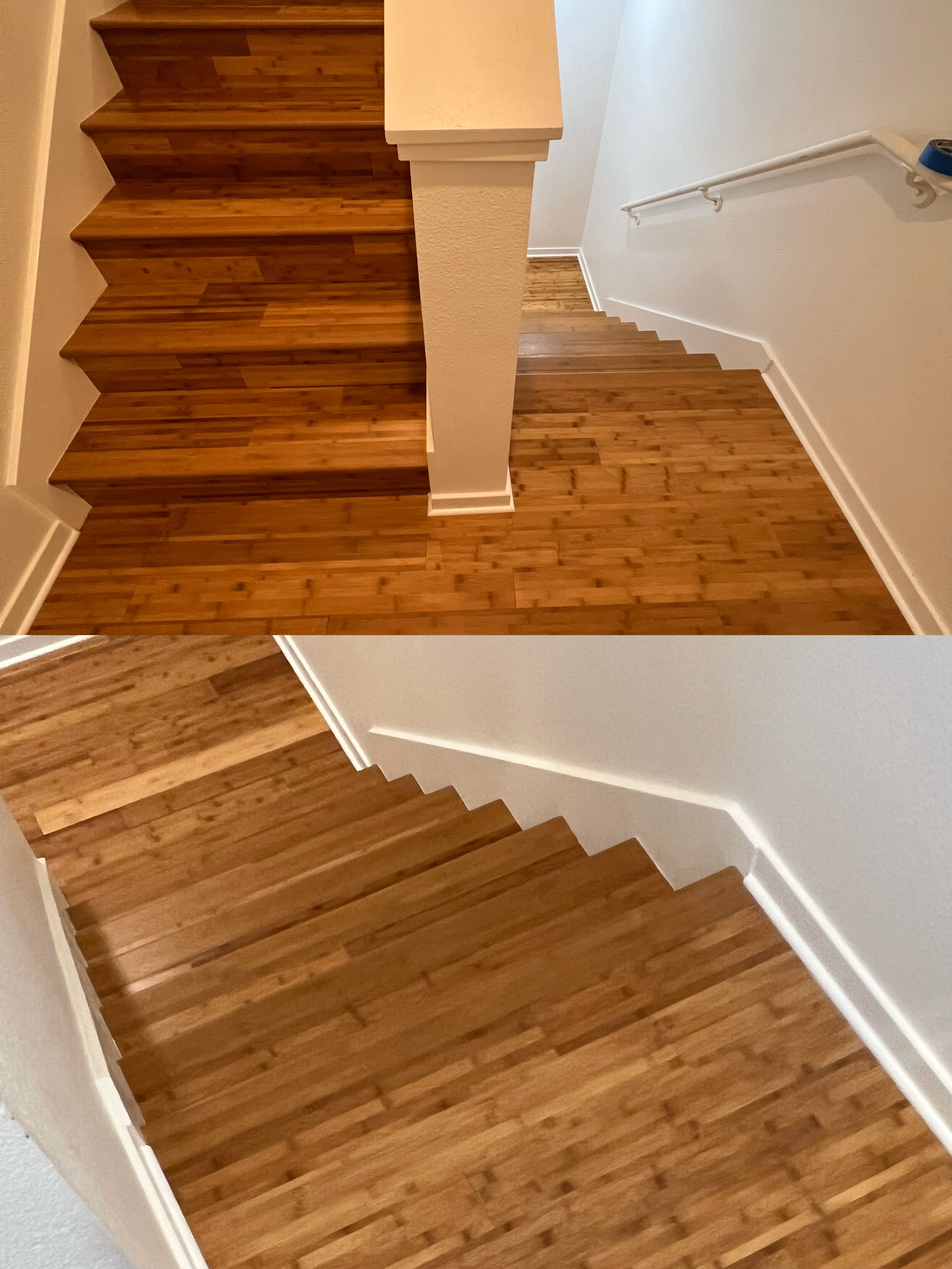
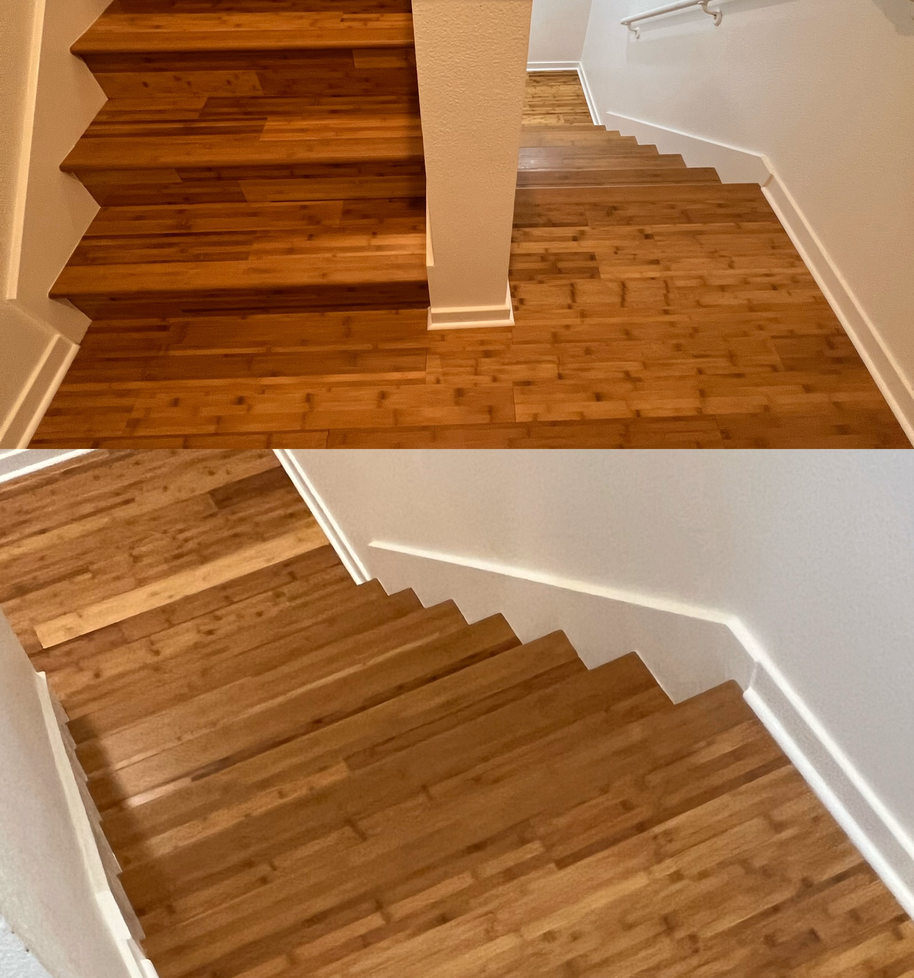
12/23/2024 installation page done

diff --git a/Installation.html b/Installation.html
@@ -55,13 +55,13 @@
             <div class="accordion-item">
               <h2 class="accordion-header" id="headingTwo">
                 <button class="accordion-button collapsed" type="button" data-bs-toggle="collapse" data-bs-target="#collapseTwo" aria-expanded="false" aria-controls="collapseTwo">
-                  2 1/4 inch red oak hardwood floor refinished with waterbased finish
+                  red oak hardwood floor with walnut strips
                 </button>
               </h2>
               <div id="collapseTwo" class="accordion-collapse collapse" aria-labelledby="headingTwo" data-bs-parent="#accordionExample">
                 <div class="accordion-body">
                     <div class="imageposition">
-                        <img src="5.png" alt="...">
+                        <img src="install7.jpg" alt="...">
                     </div>
                 </div>
               </div>
@@ -69,13 +69,13 @@
             <div class="accordion-item">
               <h2 class="accordion-header" id="headingThree">
                 <button class="accordion-button collapsed" type="button" data-bs-toggle="collapse" data-bs-target="#collapseThree" aria-expanded="false" aria-controls="collapseThree">
-                  Water damaged floor stained with Dark Walnut
+                  Prefinished Bamboo floor on stairs
                 </button>
               </h2>
               <div id="collapseThree" class="accordion-collapse collapse" aria-labelledby="headingThree" data-bs-parent="#accordionExample">
                 <div class="accordion-body">
                     <div class="imageposition">
-                        <img src="4.png" alt="...">
+                        <img src="install9.jpg" alt="...">
                     </div>
                  </div>
               </div>
@@ -83,13 +83,13 @@
             <div class="accordion-item">
                 <h2 class="accordion-header" id="headingFour">
                   <button class="accordion-button collapsed" type="button" data-bs-toggle="collapse" data-bs-target="#collapseFour" aria-expanded="false" aria-controls="collapseFour">
-                    Before vs after! Better than expected
+                    White oak prefinished engineering hardwood floor over concrete
                   </button>
                 </h2>
                 <div id="collapseFour" class="accordion-collapse collapse" aria-labelledby="headingFour" data-bs-parent="#accordionExample">
                   <div class="accordion-body">
                       <div class="imageposition">
-                          <img src="3.png" alt="...">
+                          <img src="install5.jpg" alt="...">
                       </div>
                   </div>
                 </div>
@@ -97,13 +97,13 @@
               <div class="accordion-item">
                 <h2 class="accordion-header" id="headingFive">
                   <button class="accordion-button collapsed" type="button" data-bs-toggle="collapse" data-bs-target="#collapseFive" aria-expanded="false" aria-controls="collapseFive">
-                    Oil based natural red oak finish
+                    Prefinished Engineering Hardwood floor nailed down.
                   </button>
                 </h2>
                 <div id="collapseFive" class="accordion-collapse collapse" aria-labelledby="headingFive" data-bs-parent="#accordionExample">
                   <div class="accordion-body">
                       <div class="imageposition">
-                          <img src="2.png" alt="...">
+                          <img src="install1.jpg" alt="...">
                       </div>
                   </div>
                 </div>
@@ -111,17 +111,62 @@
               <div class="accordion-item">
                 <h2 class="accordion-header" id="headingSix">
                   <button class="accordion-button collapsed" type="button" data-bs-toggle="collapse" data-bs-target="#collapseSix" aria-expanded="false" aria-controls="collapseSix">
-                    Bamboo floor with oil base natural finish
+                    Red oak hardwood floor with natural finish
                   </button>
                 </h2>
                 <div id="collapseSix" class="accordion-collapse collapse" aria-labelledby="headingSix" data-bs-parent="#accordionExample">
                   <div class="accordion-body">
                       <div class="imageposition">
-                          <img src="1.png" alt="...">
+                          <img src="install2.jpg" alt="...">
                       </div>
                    </div>
                 </div>
               </div>
+              <div class="accordion-item">
+                <h2 class="accordion-header" id="heading7">
+                  <button class="accordion-button collapsed" type="button" data-bs-toggle="collapse" data-bs-target="#collapse7" aria-expanded="false" aria-controls="collapse7">
+                    Solid white oak hardwood floor.
+                  </button>
+                </h2>
+                <div id="collapse7" class="accordion-collapse collapse" aria-labelledby="heading7" data-bs-parent="#accordionExample">
+                  <div class="accordion-body">
+                      <div class="imageposition">
+                          <img src="install3.jpg" alt="...">
+                      </div>
+                  </div>
+                </div>
+              </div>
+
+              <div class="accordion-item">
+                <h2 class="accordion-header" id="heading8">
+                  <button class="accordion-button collapsed" type="button" data-bs-toggle="collapse" data-bs-target="#collapse8" aria-expanded="false" aria-controls="collapse8">
+                    Vinyl plank floor.
+                  </button>
+                </h2>
+                <div id="collapse8" class="accordion-collapse collapse" aria-labelledby="heading8" data-bs-parent="#accordionExample">
+                  <div class="accordion-body">
+                      <div class="imageposition">
+                          <img src="install6.jpg" alt="...">
+                      </div>
+                  </div>
+                </div>
+              </div>
+
+              <div class="accordion-item">
+                <h2 class="accordion-header" id="heading9">
+                  <button class="accordion-button collapsed" type="button" data-bs-toggle="collapse" data-bs-target="#collapse9" aria-expanded="false" aria-controls="collapse9">
+                    Laminate floor.
+                  </button>
+                </h2>
+                <div id="collapse9" class="accordion-collapse collapse" aria-labelledby="heading9" data-bs-parent="#accordionExample">
+                  <div class="accordion-body">
+                      <div class="imageposition">
+                          <img src="install8.jpg" alt="...">
+                      </div>
+                  </div>
+                </div>
+              </div>
+
           </div>
 
 

diff --git a/styles.css b/styles.css
@@ -86,7 +86,7 @@ p
 }
 
 .imageposition img {
-    max-width: 100%;              /* Ensure the image does not overflow the container */
+    max-width: 50%;              /* Ensure the image does not overflow the container */
     height: auto;                 /* Maintain aspect ratio */
 }
 
